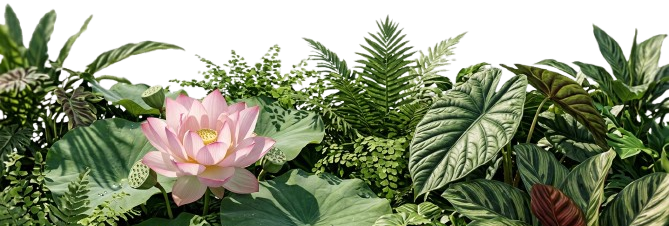
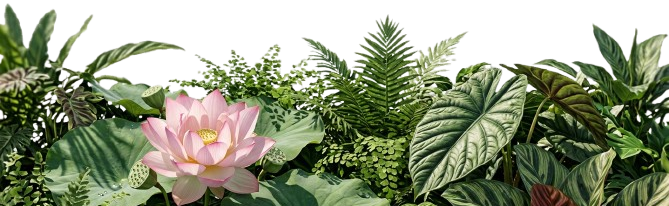
parallax 2

diff --git a/root/frontend/src/components/sections/herosection.jsx b/root/frontend/src/components/sections/herosection.jsx
@@ -1,86 +1,96 @@
-import { useEffect, useRef } from "react";
+import { useEffect, useRef, useState } from "react";
 
 import bgImage from "../../assets/mountain_bg.png";
-import midImage from "../../assets/buddha_at_lake.png";
+import midImage from "../../assets/buddha_at_lake2.png";
 import fgImage from "../../assets/lush_plants.png";
+
+const LAYERS = [
+  { speed: 0.0,  alignBottom: false, initialOffset: 0    }, // háttér — fix
+  { speed: 0.3, alignBottom: false, initialOffset: 0  }, // buddha — közepes
+  { speed: 0.60, alignBottom: true                        }, // növényzet
+];
 
 export default function ParallaxHero() {
   const containerRef = useRef(null);
-  const layerRefs = useRef([]);
+  const layerRefs    = useRef([]);
+  const rafRef       = useRef(null);
+  const bgImgRef     = useRef(null);
+
+  // Konténer magassága = háttérkép renderelt magassága
+  const updateContainerHeight = () => {
+    if (bgImgRef.current && containerRef.current) {
+      containerRef.current.style.height =
+        `${bgImgRef.current.offsetHeight}px`;
+    }
+  };
 
   useEffect(() => {
-    const handleScroll = () => {
-      const scrollY = window.scrollY;
-      const speeds = [0.15, 0.45, 0.65];
+    const getH = () => containerRef.current?.offsetHeight ?? window.innerHeight;
 
+    const update = () => {
+      const scrollY = window.scrollY;
+      const h = getH();
       layerRefs.current.forEach((layer, i) => {
-        if (layer) {
-          layer.style.transform = `translateY(${scrollY * speeds[i]}px)`;
+        if (!layer) return;
+        const { speed, alignBottom, initialOffset } = LAYERS[i];
+        const img = layer.querySelector("img");
+
+        let startY;
+        if (alignBottom) {
+          const imgH = img?.offsetHeight ?? 0;
+          startY = window.innerHeight - imgH + 50;
+        } else {
+          startY = (initialOffset ?? 0) * h;
         }
+
+        layer.style.transform =
+          `translate3d(0, ${startY + scrollY * speed}px, 0)`;
       });
+      rafRef.current = null;
     };
 
-    window.addEventListener("scroll", handleScroll, { passive: true });
-    return () => window.removeEventListener("scroll", handleScroll);
+    const onScroll = () => {
+      if (!rafRef.current) rafRef.current = requestAnimationFrame(update);
+    };
+
+    update();
+    window.addEventListener("scroll", onScroll, { passive: true });
+    window.addEventListener("resize", () => { updateContainerHeight(); update(); }, { passive: true });
+
+    return () => {
+      window.removeEventListener("scroll", onScroll);
+      window.removeEventListener("resize", update);
+      if (rafRef.current) cancelAnimationFrame(rafRef.current);
+    };
   }, []);
 
   return (
     <section
       ref={containerRef}
       className="relative w-full overflow-hidden"
-      style={{ height: "200vh" }}  
+      // Nincs fix height — a bgImgRef.onLoad beállítja dinamikusan
     >
-      {/* Hátsó réteg: hegyes táj - a tetején kezdődik */}
-      <div
-        ref={(el) => (layerRefs.current[0] = el)}
-        className="absolute w-full"
-        style={{ willChange: "transform", zIndex: 1, top: "0px" }}
-      >
-        <img src={bgImage} alt="" className="w-full" style={{ height: "auto" }} draggable={false} />
-      </div>
-
-      {/* Középső réteg: buddha - középtájon */}
-      <div
-        ref={(el) => (layerRefs.current[1] = el)}
-        className="absolute w-full"
-        style={{ willChange: "transform", zIndex: 2, top: "3%" }}
-      >
-        <img src={midImage} alt="" className="w-full" style={{ height: "auto" }} draggable={false} />
-      </div>
-
-      {/* Előtér réteg: növényzet - alul */}
-      <div
-        ref={(el) => (layerRefs.current[2] = el)}
-        className="absolute w-full"
-        style={{ willChange: "transform", zIndex: 3, top: "25%" }}
-      >
-        <img src={fgImage} alt="" className="w-full" style={{ height: "auto" }} draggable={false} />
-      </div>
-
-      {/* Szöveg - a viewport tetején marad */}
-      <div
-        className="sticky top-0 h-screen flex flex-col items-center justify-center"
-        style={{ zIndex: 10 }}
-      >
-        <h1 className="text-white text-5xl md:text-7xl font-bold drop-shadow-lg text-center px-4">
-          HeadSpa Félegyháza
-        </h1>
-        <p className="text-white text-xl mt-4 drop-shadow-md">
-          Fedezze fel az igazi kikapcsolódást
-        </p>
-      </div>
-
-      {/* Scroll jelző */}
-      <div
-        className="absolute w-full flex justify-center"
-        style={{ zIndex: 10, top: "85vh" }}
-      >
-        <div className="animate-bounce">
-          <svg width="24" height="24" viewBox="0 0 24 24" fill="none" stroke="white" strokeWidth="2">
-            <path d="M12 5v14M5 12l7 7 7-7" />
-          </svg>
+      {[bgImage, midImage, fgImage].map((src, i) => (
+        <div
+          key={i}
+          ref={(el) => (layerRefs.current[i] = el)}
+          className="absolute w-full top-0"
+          style={{ willChange: "transform", zIndex: i + 1 }}
+        >
+          <img
+            src={src}
+            alt=""
+            draggable={false}
+            className="w-full"
+            style={{ display: "block", height: "auto" }}
+            // Csak a háttérképnél kell az onLoad és a ref
+            {...(i === 0 ? {
+              ref: bgImgRef,
+              onLoad: updateContainerHeight,
+            } : {})}
+          />
         </div>
-      </div>
+      ))}
     </section>
   );
 }